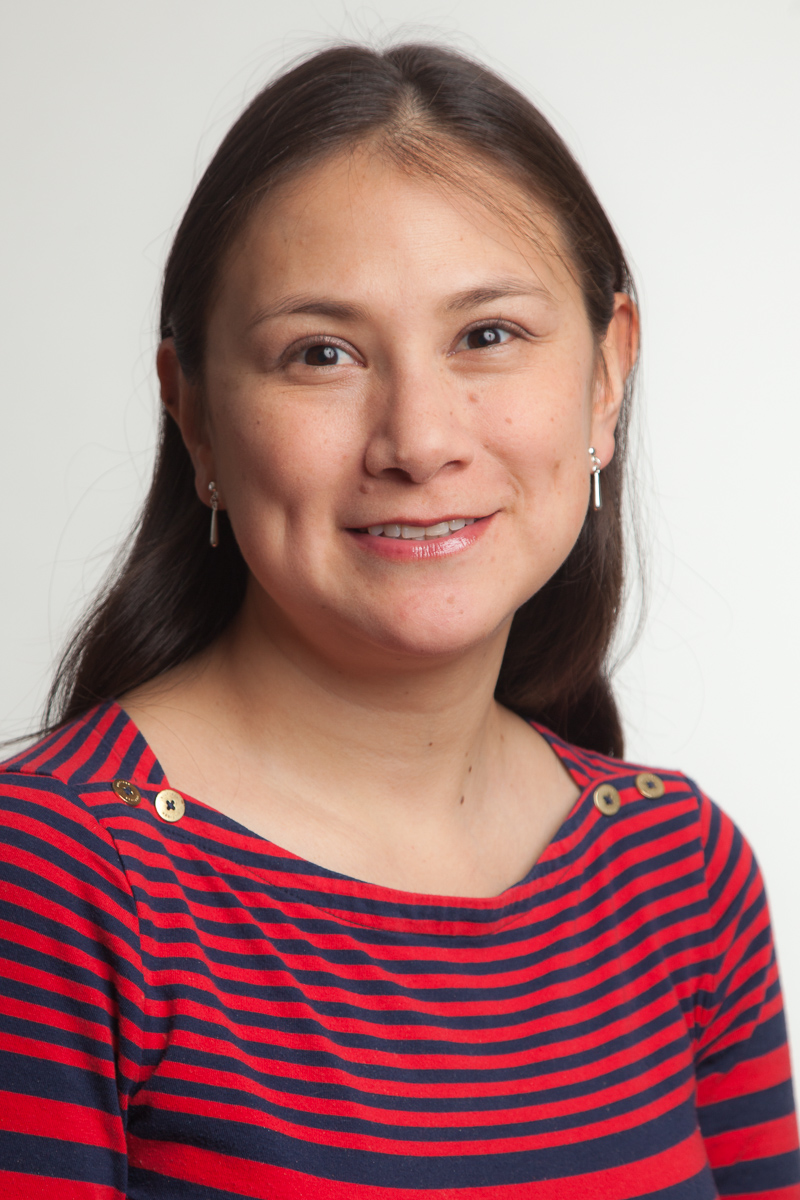
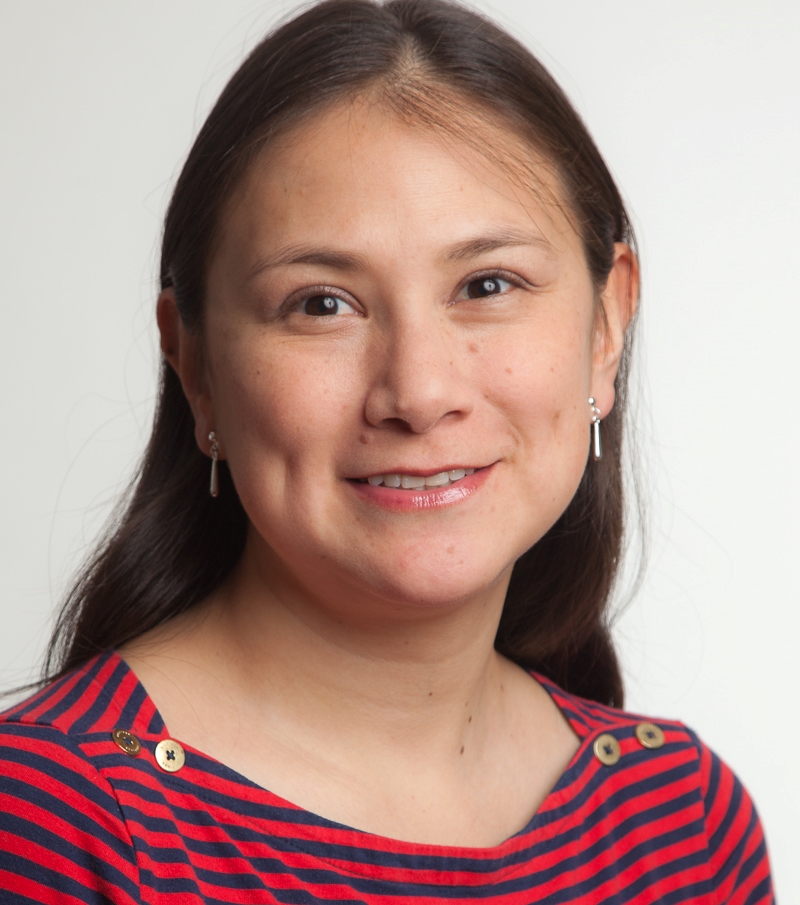
primeros cambios

diff --git a/index.html b/index.html
@@ -157,9 +157,9 @@
         <div class="row">
           <div class="col-lg-4 col-md-6">
             <div class="speaker" data-aos="fade-up" data-aos-delay="100">
-              <img src="assets/img/speakers/Adriana_Romero_.jpg" alt="Speaker 1" class="img-fluid">
+              <img src="assets/img/speakers2022/Claudia Izquierdo.jpg" alt="Speaker 1" class="img-fluid">
               <div class="details">
-                <h3><a href="speaker-details-1.html">Adriana Romero Soriano</a></h3>
+                <h3><a href="speaker-details-1.html">Claudia Izquierdo</a></h3>
                 <p>Research Scientist (Facebook AI Research) / Adjunct professor (McGill University)</p>
                 <div class="social">
                   <a href="https://twitter.com/adri_romsor"><i class="bi bi-twitter"></i></a>
@@ -173,9 +173,9 @@
           </div>
           <div class="col-lg-4 col-md-6">
             <div class="speaker" data-aos="fade-up" data-aos-delay="200">
-              <img src="assets/img/speakers/Karen_Sánchez_.jpg" alt="Speaker 2" class="img-fluid">
+              <img src="assets/img/speakers2022/Cristina Gómez Santamaria.jpg" alt="Speaker 2" class="img-fluid">
               <div class="details">
-                <h3><a href="speaker-details-2.html">Karen Yaneth Sánchez Quiroga</a></h3>
+                <h3><a href="speaker-details-2.html">Cristina Gómez Santamaria</a></h3>
                 <p>PhD. (c) in Engineering. Universidad Industrial de Santander</p>
                 <div class="social">
                   <a href="https://twitter.com/karensanchez119"><i class="bi bi-twitter"></i></a>
@@ -188,9 +188,9 @@
           </div>
           <div class="col-lg-4 col-md-6">
             <div class="speaker" data-aos="fade-up" data-aos-delay="300">
-              <img src="assets/img/speakers/katerin_perdom_.jpg" alt="Speaker 3" class="img-fluid">
+              <img src="assets/img/speakers2022/ManuelaBastidasFoto - Manuela Bastidas.jpeg" alt="Speaker 3" class="img-fluid">
               <div class="details">
-                <h3><a href="speaker-details-3.html">Katerine Perdomo</a></h3>
+                <h3><a href="speaker-details-3.html">Manuela Bastidas</a></h3>
                 <p>Research Assistant - New York University</p>
                 <div class="social">
                   <a href="https://twitter.com/Katerin_Perdom"><i class="bi bi-twitter"></i></a>
@@ -204,9 +204,9 @@
           </div>
           <div class="col-lg-4 col-md-6">
             <div class="speaker" data-aos="fade-up" data-aos-delay="100">
-              <img src="assets/img/speakers/LaurenFlor_.jpg" alt="Speaker 4" class="img-fluid">
+              <img src="assets/img/speakers2022/Mariana Quiroga.png" alt="Speaker 4" class="img-fluid">
               <div class="details">
-                <h3><a href="speaker-details-4.html">Lauren Flor</a></h3>
+                <h3><a href="speaker-details-4.html">Mariana Quiroga</a></h3>
                 <p>Astrophysics - Universidad del Valle</p>
                 <div class="social">
                   <a href="https://twitter.com/lauren_flor"><i class="bi bi-twitter"></i></a>
@@ -219,9 +219,9 @@
           </div>
           <div class="col-lg-4 col-md-6">
             <div class="speaker" data-aos="fade-up" data-aos-delay="200">
-              <img src="assets/img/speakers/Martha_Elizabeth_.jpg" alt="Speaker 5" class="img-fluid">
+              <img src="assets/img/speakers2022/MonicaR C - Monica Ramirez.jpg" alt="Speaker 5" class="img-fluid">
               <div class="details">
-                <h3><a href="speaker-details-5.html">Martha Chávez</a></h3>
+                <h3><a href="speaker-details-5.html">Monica Ramirez</a></h3>
                 <p>Enterprise Data Architect - Banco Pichincha</p>
                 <div class="social">
                   <a href="https://twitter.com/m_eli_23"><i class="bi bi-twitter"></i></a>
@@ -249,7 +249,7 @@
           </div>
           <div class="col-lg-4 col-md-6">
             <div class="speaker" data-aos="fade-up" data-aos-delay="300">
-              <img src="assets/img/speakers/Lincy Gonzalez_.jpg" alt="Speaker 7" class="img-fluid">
+              <img src="assets/img/speakers2022/Lincy Gonzalez_.jpg" alt="Speaker 7" class="img-fluid">
               <div class="details">
                 <h3><a href="speaker-details-7.html">Lincy González Rojas</a></h3>
                 <p>Senior Software Engineer / Gorilla Logic</p>
@@ -264,9 +264,9 @@
           </div>
           <div class="col-lg-4 col-md-6">
             <div class="speaker" data-aos="fade-up" data-aos-delay="300">
-              <img src="assets/img/speakers/Maris Botero_.jpg" alt="Speaker 8" class="img-fluid">
+              <img src="assets/img/speakers2022/Maris Botero_.jpg" alt="Speaker 8" class="img-fluid">
               <div class="details">
-                <h3><a href="speaker-details-8.html">Maris Botero</a></h3>
+                <h3><a href="speaker-details-8.html">otro</a></h3>
                 <p>Data Scientist en Comfama</p>
                 <div class="social">
                   <a href="https://twitter.com/marisbotero"><i class="bi bi-twitter"></i></a>
